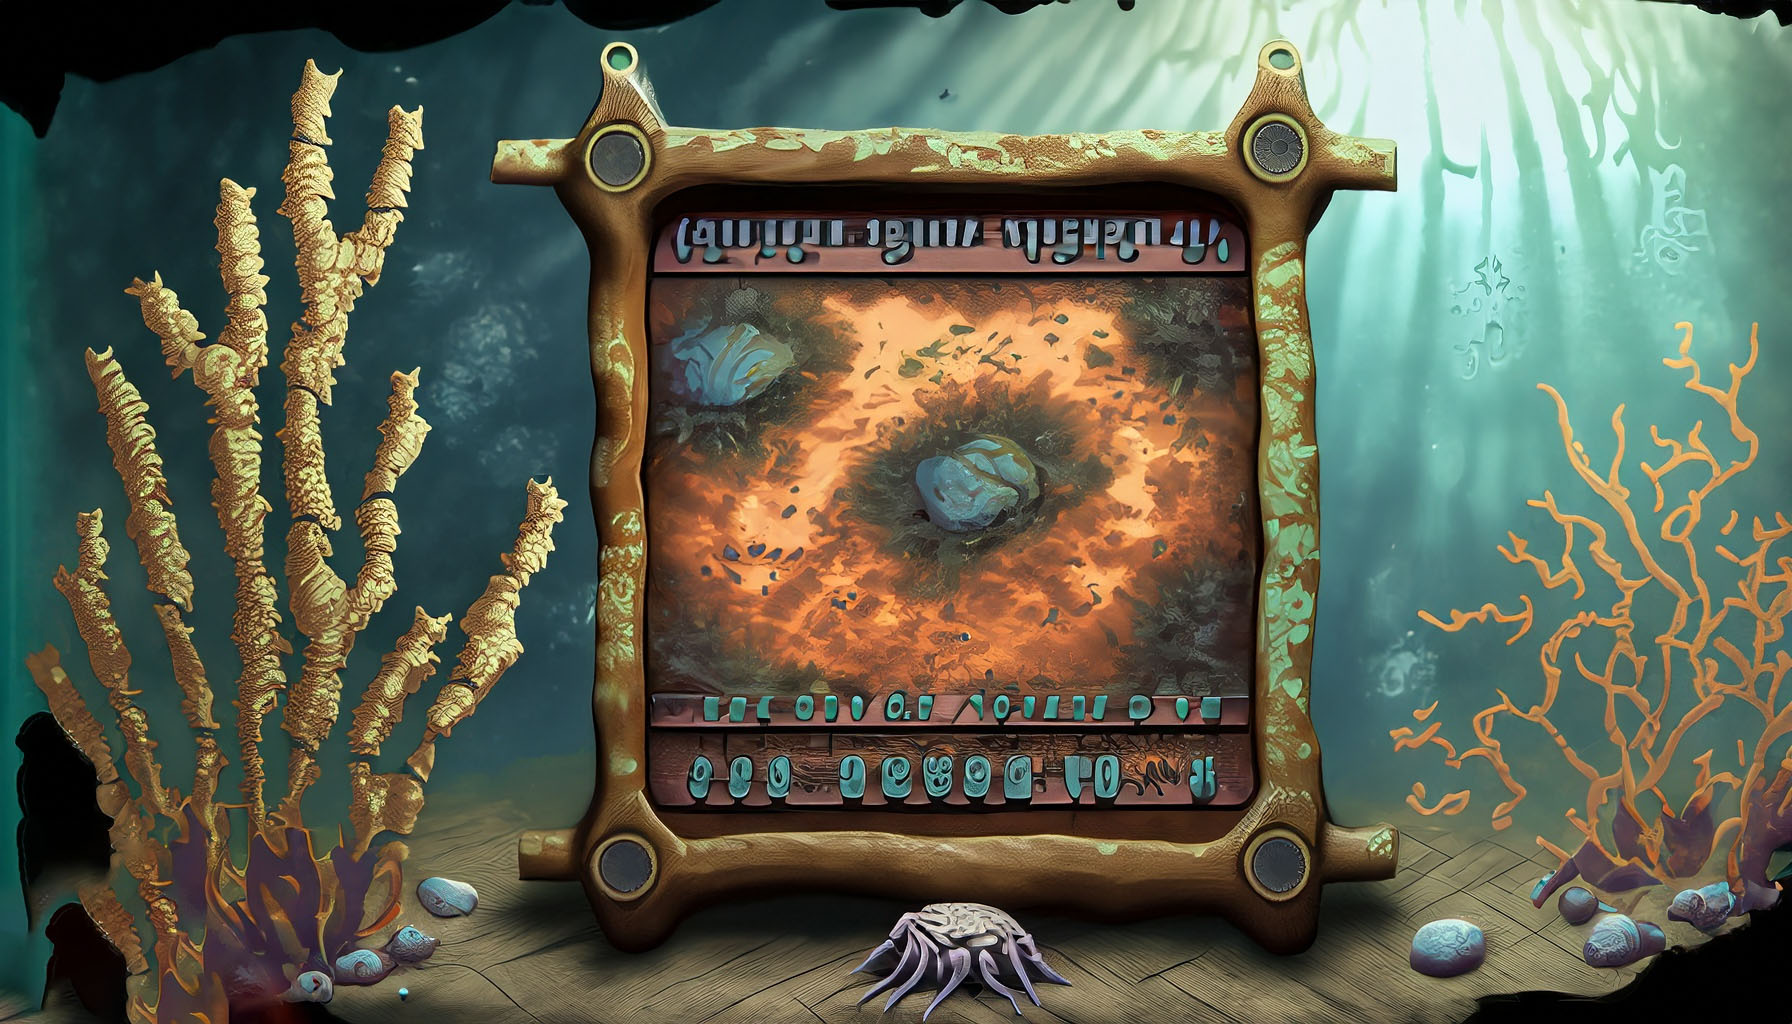
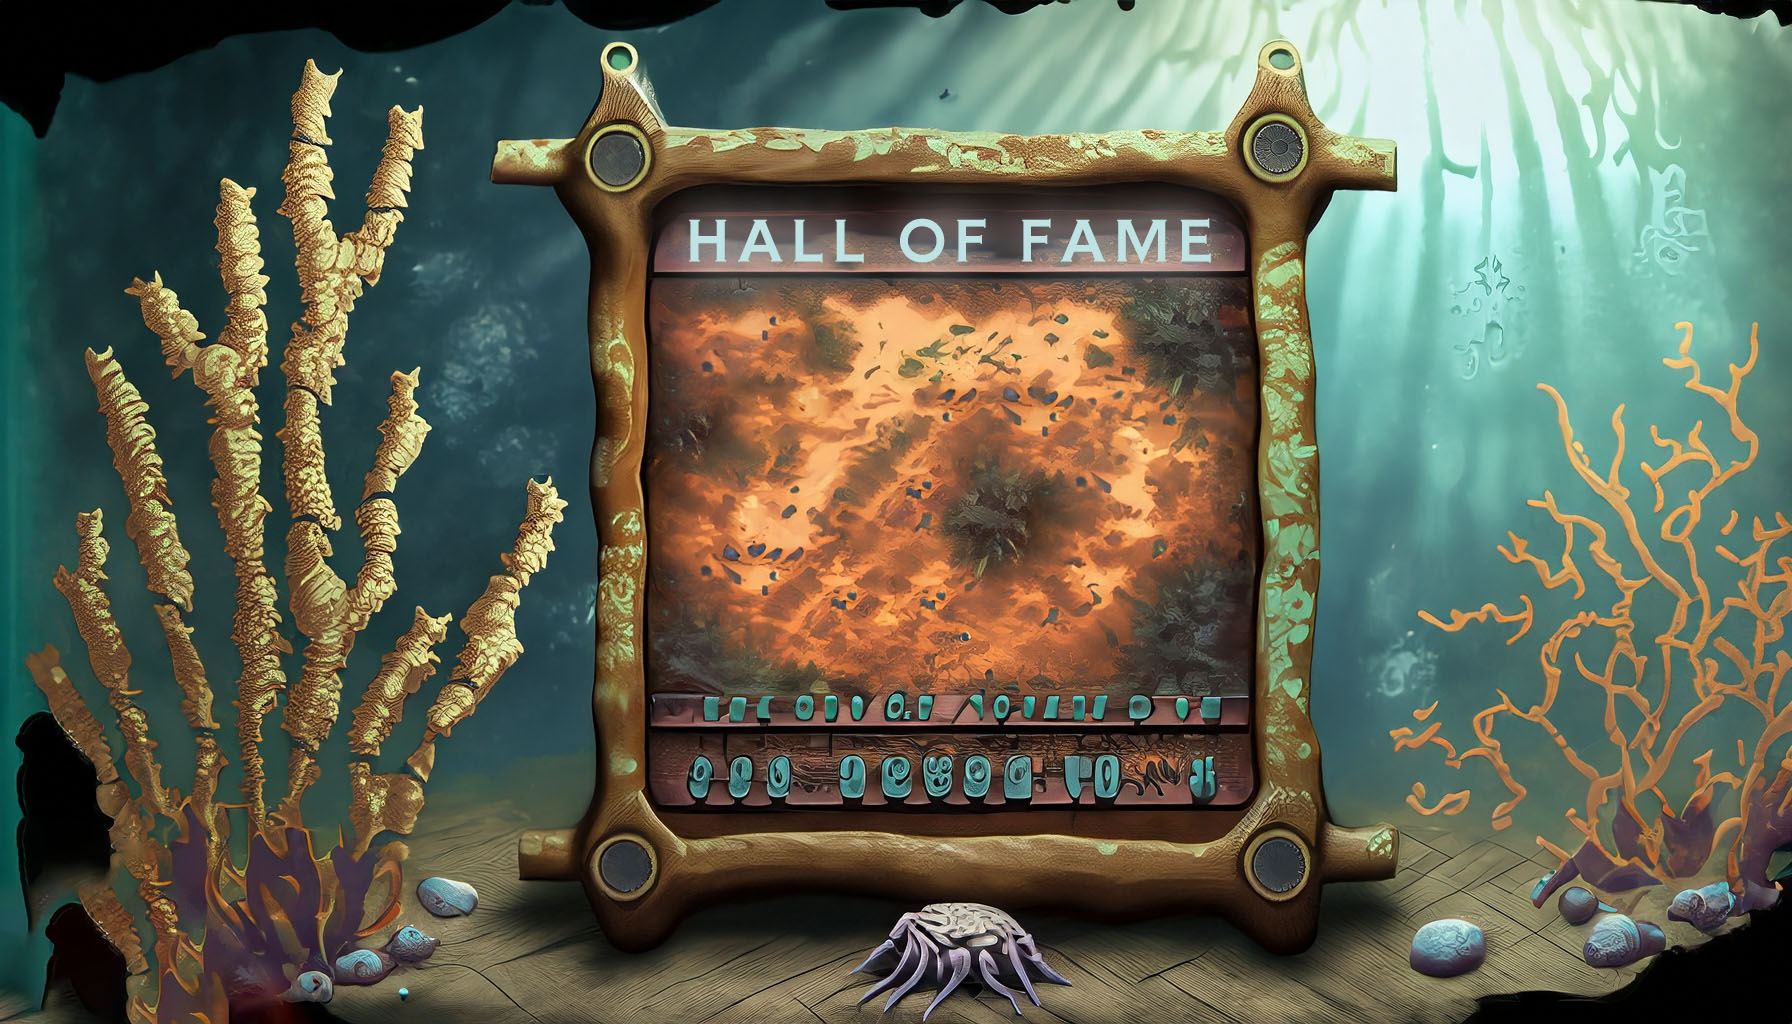
added scoreboard page

Changed region(s): [[0.3438, 0.1875, 0.6875, 0.4688], [0.4688, 0.375, 0.625, 0.5938]]

diff --git a/client/src/components/ScoreTable/ScoreTable.jsx b/client/src/components/ScoreTable/ScoreTable.jsx
@@ -1,0 +1,36 @@
+import React from "react";
+import "./ScoreTable.css";
+
+const ScoreTable = () => {
+  return (
+    <ul className="scoreboard">
+      <li>
+        <span>1st</span>
+        <span>JellowKing</span>
+        <span className="score">8</span>
+      </li>
+      <li>
+        <span>2nd</span>
+        <span>JellowKing</span>
+        <span className="score">8</span>
+      </li>
+      <li>
+        <span>3rd</span>
+        <span>JellowKing</span>
+        <span className="score">8</span>
+      </li>
+      <li>
+        <span>4th</span>
+        <span>JellowKing</span>
+        <span className="score">8</span>
+      </li>
+      <li>
+        <span>5th</span>
+        <span>JellowKing</span>
+        <span className="score">8</span>
+      </li>
+    </ul>
+  );
+};
+
+export default ScoreTable;

diff --git a/client/src/App.jsx b/client/src/App.jsx
@@ -4,6 +4,7 @@ import { Routes, Route } from "react-router-dom";
 import HomePage from "./pages/HomePage/HomePage";
 import GamePage from "./pages/GamePage/GamePage";
 import ProtectedRoute from "./components/ProtectedRoutes/ProtectedRoutes";
+import ScorePage from "./pages/ScorePage/ScorePage";
 
 function App() {
   return (
@@ -15,6 +16,14 @@ function App() {
           element={
             <ProtectedRoute>
               <GamePage />
+            </ProtectedRoute>
+          }
+        ></Route>{" "}
+        <Route
+          path="/scoreboard"
+          element={
+            <ProtectedRoute>
+              <ScorePage />
             </ProtectedRoute>
           }
         ></Route>

diff --git a/client/src/pages/ScorePage/ScorePage.css b/client/src/pages/ScorePage/ScorePage.css
@@ -1,0 +1,21 @@
+.scorepage-wrapper {
+    display: flex;
+    width: 100vw;
+    height: 100vh;
+    background-image: url("../../assets/scorepage_background.jpg");
+    background-size: cover;
+    background-repeat: no-repeat;
+    background-position: center;
+    position: relative;
+}
+
+.table-wrapper {
+    display: flex;
+    position: absolute;
+    top: 29%;
+    right: 33%;
+}
+
+.table-wrapper span {
+    margin: 1rem;
+}

diff --git a/client/src/pages/ScorePage/ScorePage.jsx b/client/src/pages/ScorePage/ScorePage.jsx
@@ -1,0 +1,15 @@
+import React from "react";
+import "./ScorePage.css";
+import ScoreTable from "../../components/ScoreTable/ScoreTable";
+
+const ScorePage = () => {
+  return (
+    <div className="scorepage-wrapper">
+      <div className="table-wrapper">
+        <ScoreTable></ScoreTable>
+      </div>
+    </div>
+  );
+};
+
+export default ScorePage;

diff --git a/client/src/components/ProtectedRoutes/ProtectedRoutes.jsx b/client/src/components/ProtectedRoutes/ProtectedRoutes.jsx
@@ -1,6 +1,6 @@
 import React, { useContext } from "react";
 import { Navigate } from "react-router-dom";
-import { usersContextRef } from "../../context/usersContext";
+import { usersContextRef } from "../../contexts/usersContext";
 
 const ProtectedRoute = ({ children }) => {
   const { currentUser } = useContext(usersContextRef);

diff --git a/client/src/components/ScoreTable/ScoreTable.css b/client/src/components/ScoreTable/ScoreTable.css
@@ -1,0 +1,15 @@
+.scoreboard {
+    list-style: none;
+    color: #c3e7ed;
+    background-color: rgba(255, 228, 196, 0.154);
+    border-radius: 20px;
+    outline: 1px solid black;
+}
+
+.scoreboard li {
+    font-size: 3rem;
+}
+
+.table-wrapper span {
+    margin: 1rem;
+}
